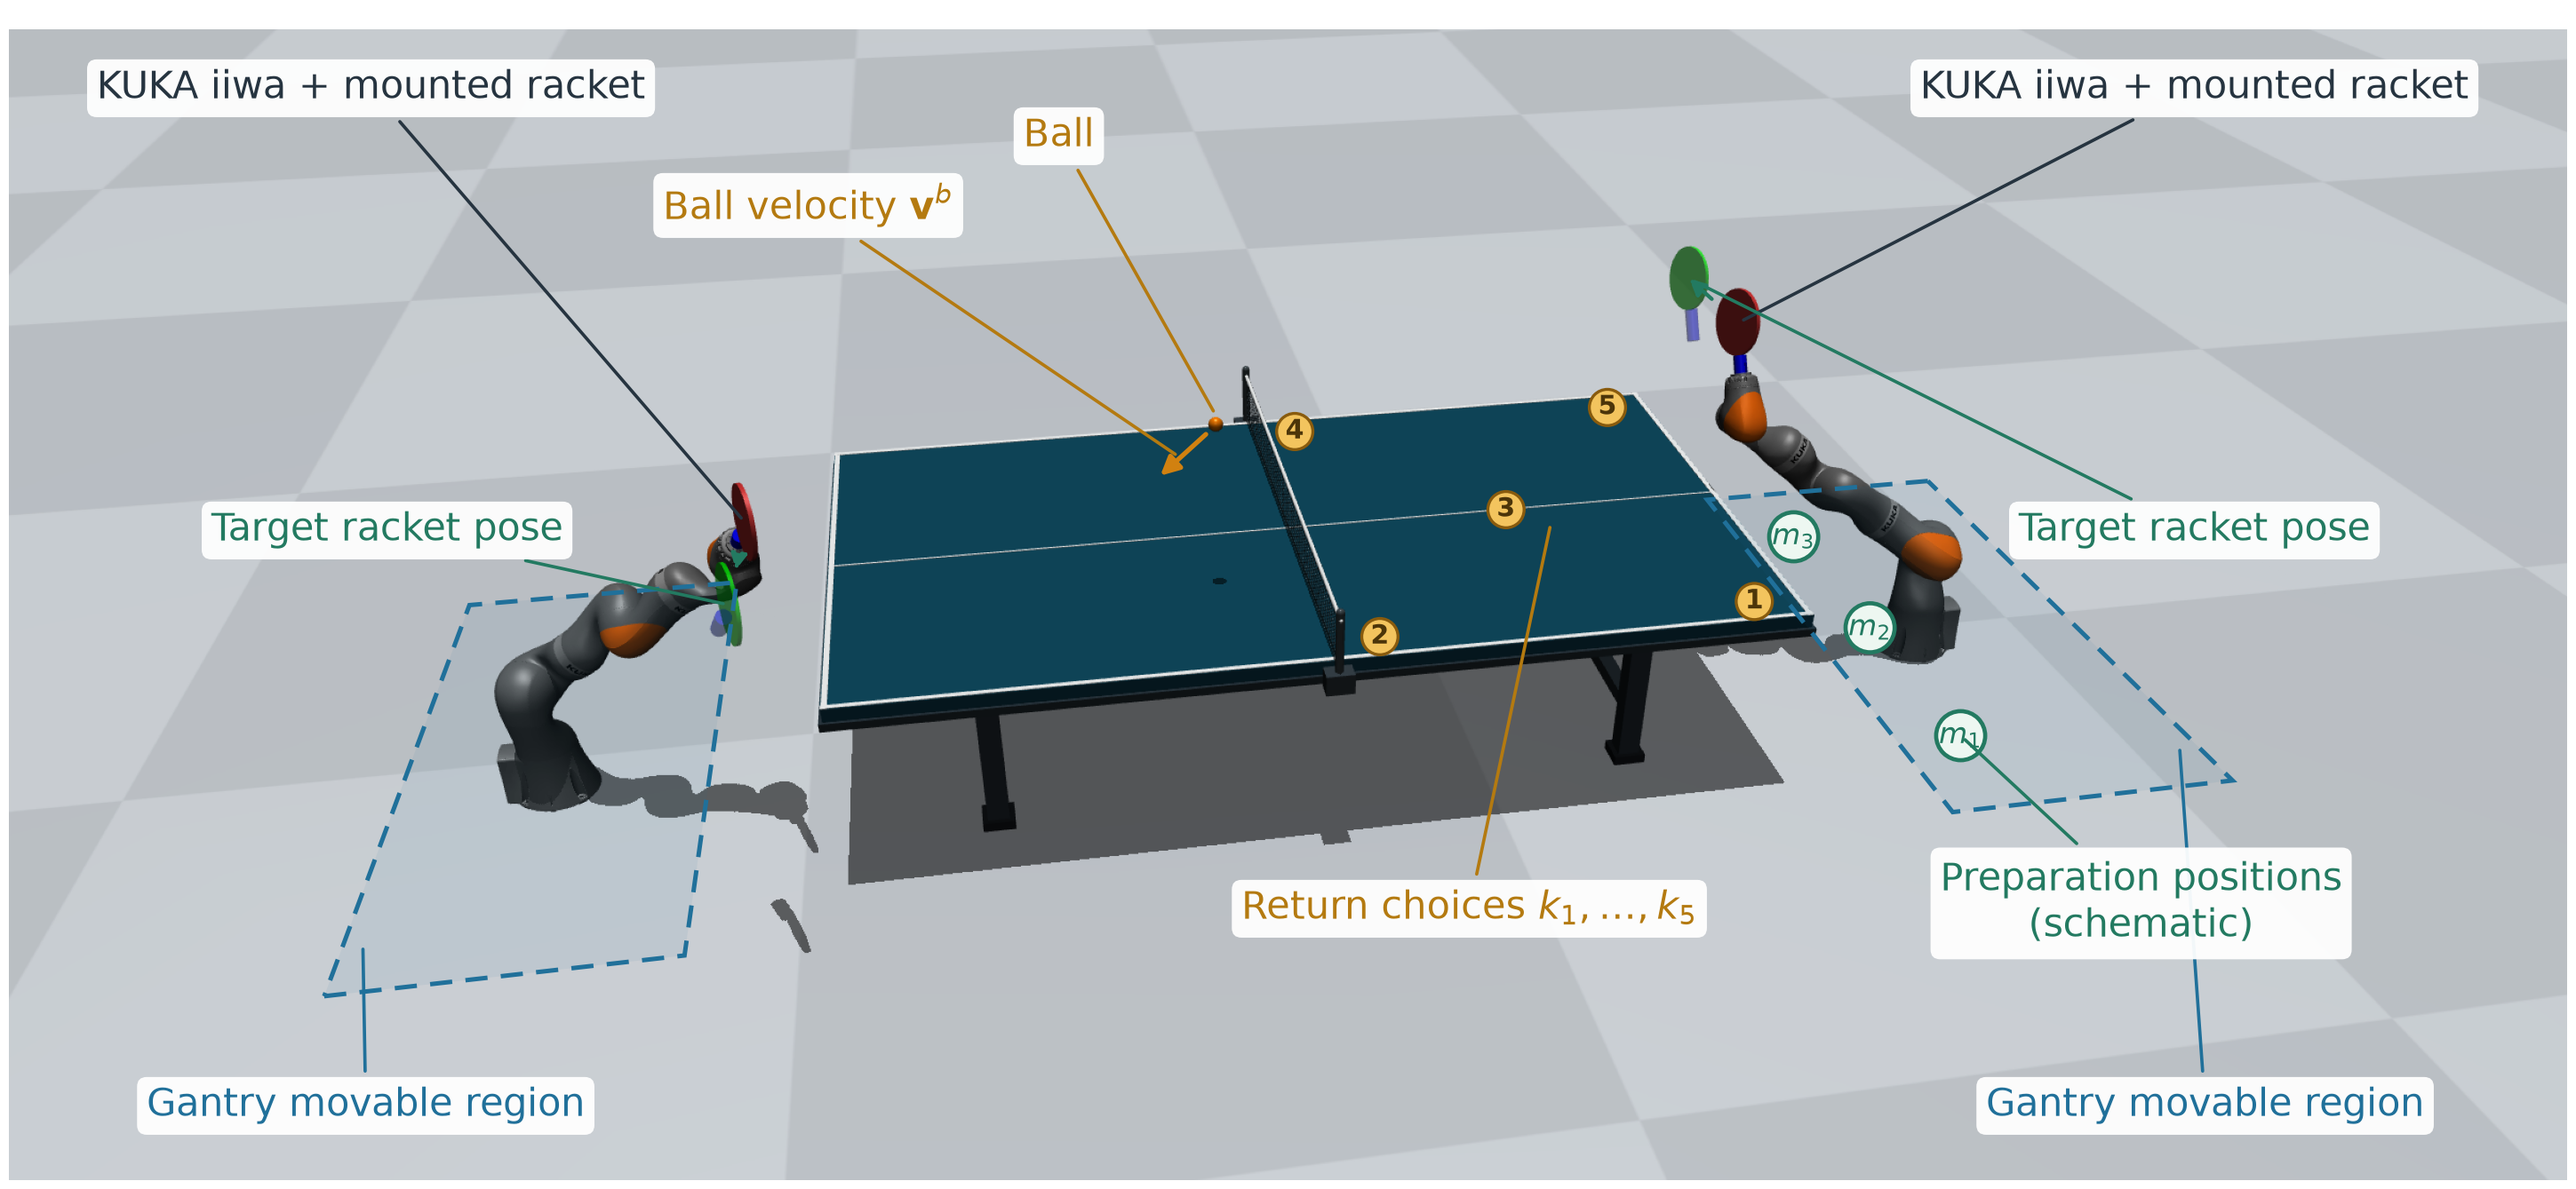
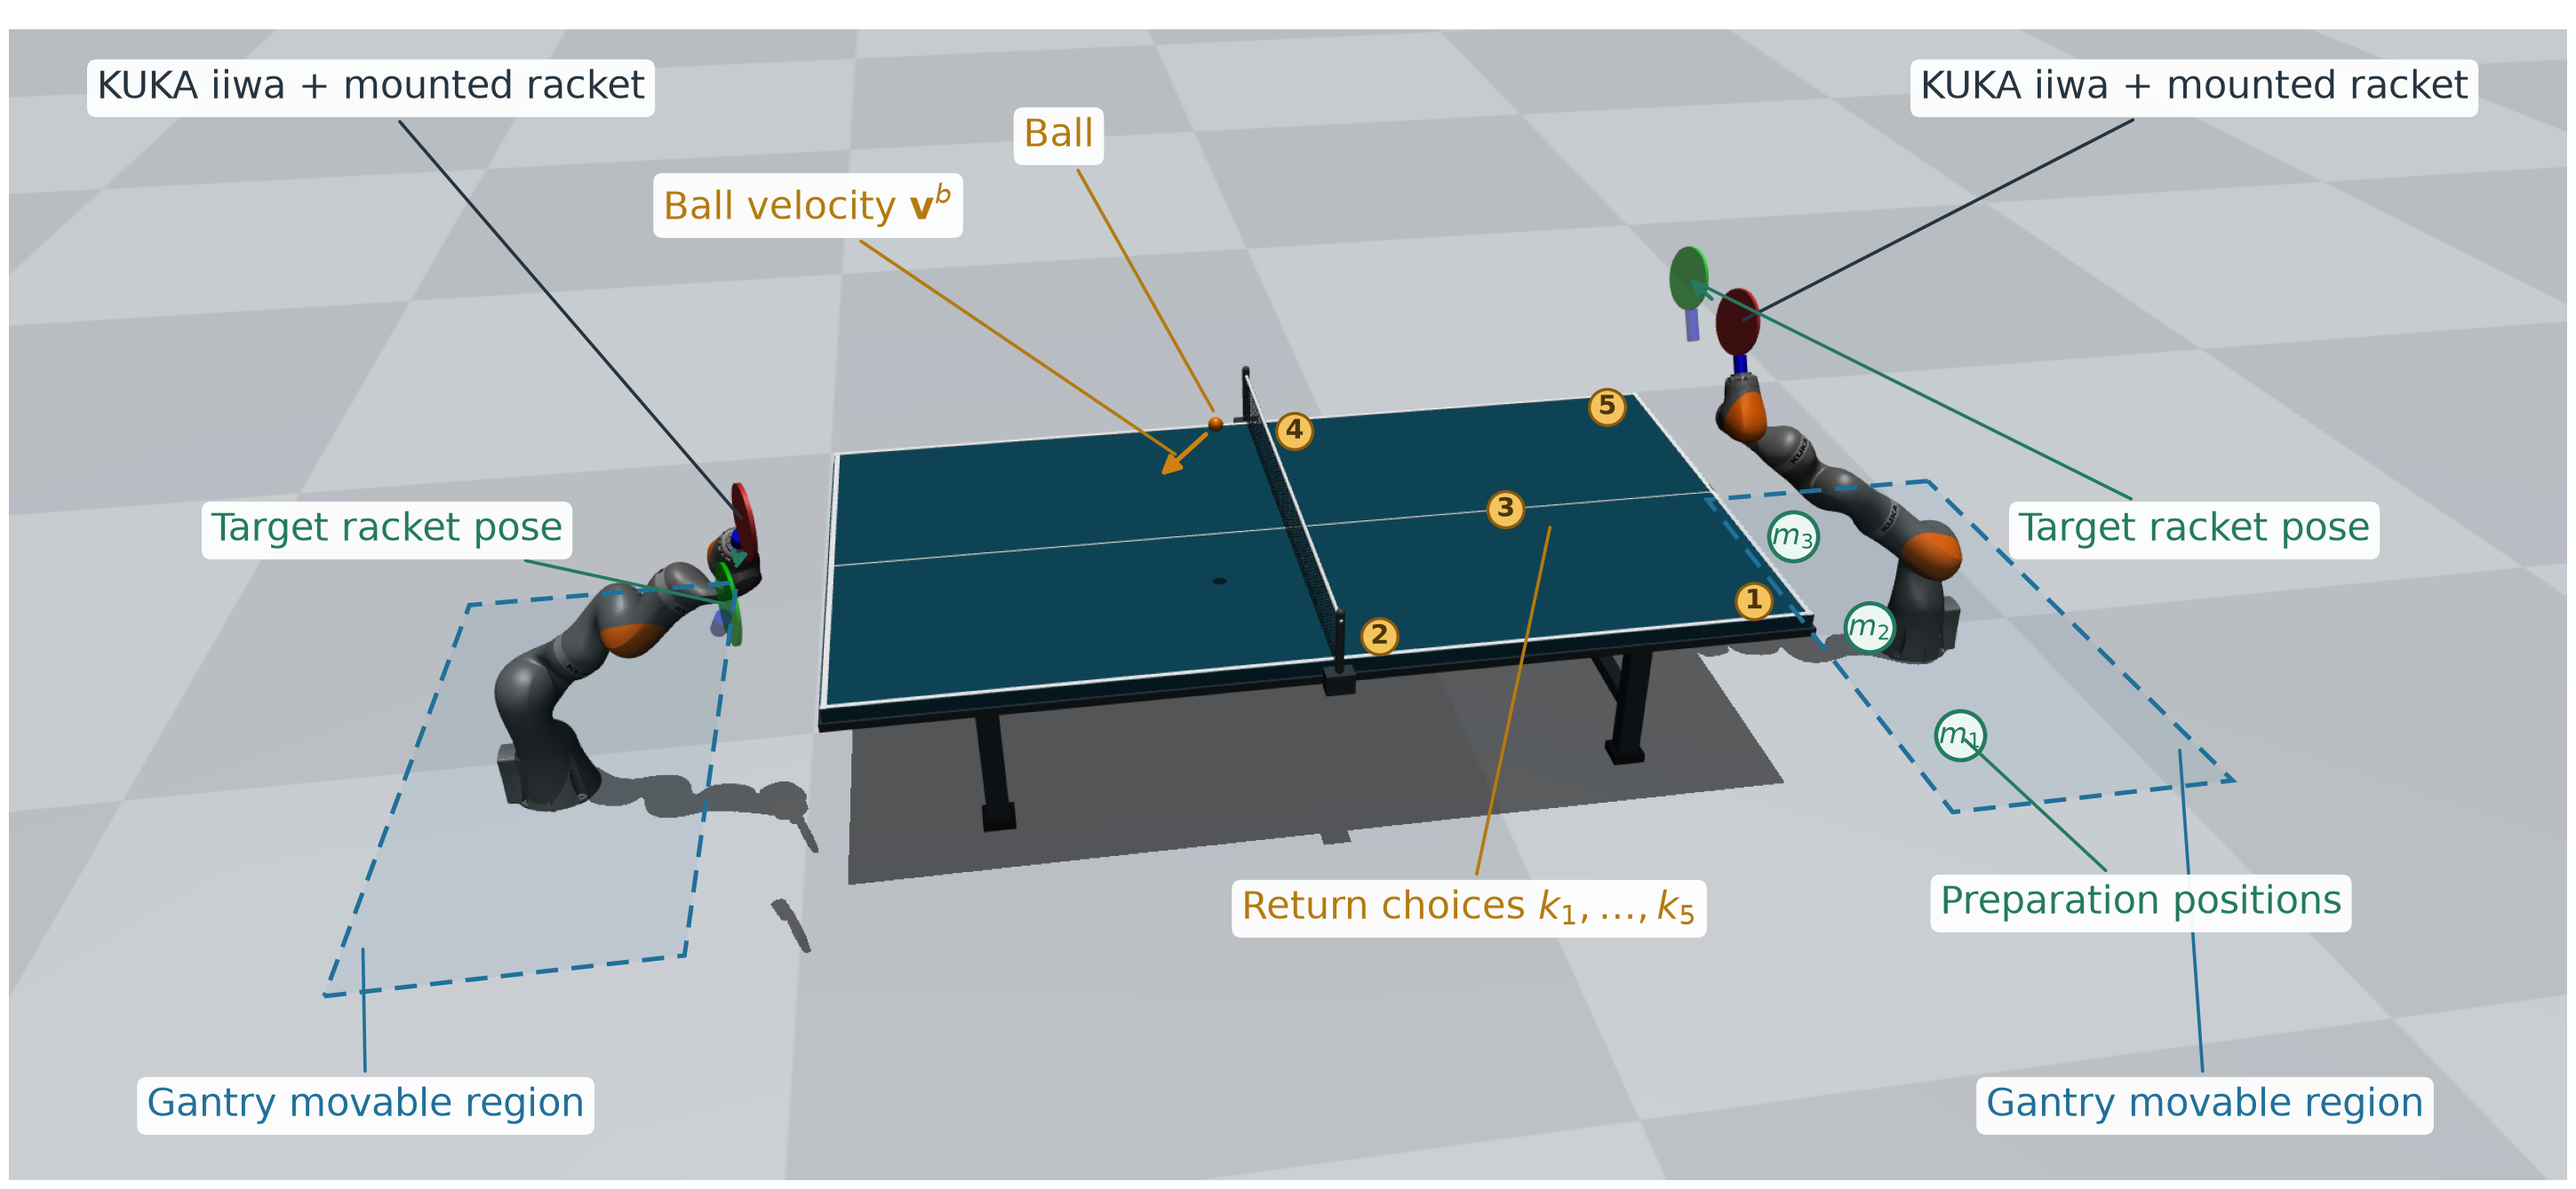
Remove schematic qualifier from preparation-position figure label

Changed region(s): [[0.7451, 0.7043, 0.9314, 0.8267]]

diff --git a/scripts/render_figure1.py b/scripts/render_figure1.py
@@ -299,7 +299,7 @@ def main():
             ax.add_patch(Circle(xy, 17, fc="#f3c45e", ec="#895b0d", lw=1, zorder=8))
             ax.text(*xy, str(index), fontsize=9, weight="bold", ha="center", va="center", color="#4c3509", zorder=9)
         # Only the center ready position is defined in the supplied source.
-        # Outer lateral positions are schematic examples, explicitly captioned.
+        # Outer lateral positions are display examples, documented in the README.
         from mujoco_env_comp import READY_GANTRY_X
         prep_x = float(m.body_pos[m.body("base_opp").id, 0] - READY_GANTRY_X)
         preps = [(prep_x, y, 0.015) for y in (-0.65, 0.0, 0.65)]
@@ -338,7 +338,7 @@ def main():
         label("Gantry movable region", (335, 1010), [-1.15, -0.8, 0.006], blue)
         label("Gantry movable region", (2060, 1010), [4.15, -0.8, 0.006], blue)
         label(r"Return choices $k_1,\ldots,k_5$", (1370, 825), [2.30, -0.10, top + 0.002], gold)
-        label("Preparation positions\n(schematic)", (2000, 820), preps[0], green)
+        label("Preparation positions", (2000, 820), preps[0], green)
         fig.savefig(output, dpi=240, facecolor="white", bbox_inches="tight", pad_inches=0.04)
         fig.savefig(output.with_suffix(".pdf"), facecolor="white", bbox_inches="tight", pad_inches=0.04)
         plt.close(fig)

diff --git a/main.tex b/main.tex
@@ -149,7 +149,7 @@ For singles table tennis, $\Players=\{1,2\}$. The attacker and defender are role
 \begin{figure}[!t]
 \centering
 \includegraphics[width=\linewidth]{Figures/figure1.pdf}
-\caption{Illustrative MuJoCo rendering of the robot table-tennis game. Blue dashed outlines mark gantry travel regions. Green rackets show target poses, and dashed arrows indicate the lateral approach directions. Five return choices are marked on the right half of the table, with target 3 centered between the four corner targets. The right-robot preparation markers are schematic examples. The ball is shown at table-tennis size, and the orange velocity arrow is scaled for visibility.}
+\caption{Illustrative MuJoCo rendering of the robot table-tennis game. Blue dashed outlines mark gantry travel regions. Green rackets show target poses, and dashed arrows indicate the lateral approach directions. Five return choices are marked on the right half of the table, with target 3 centered between the four corner targets. The preparation positions are marked for the right robot. The ball is shown at table-tennis size, and the orange velocity arrow is scaled for visibility.}
 \label{fig:environment}
 \end{figure}
 
